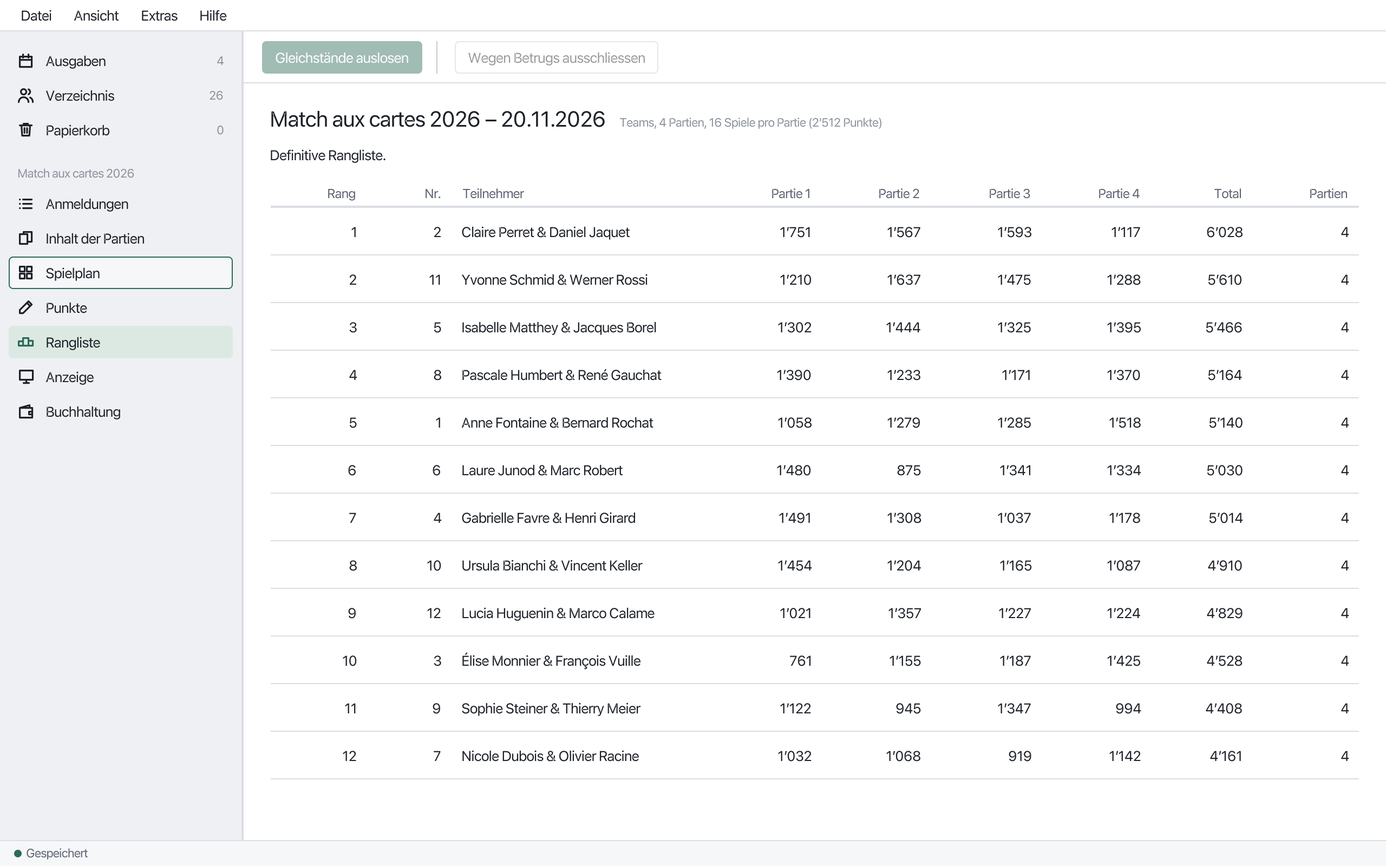
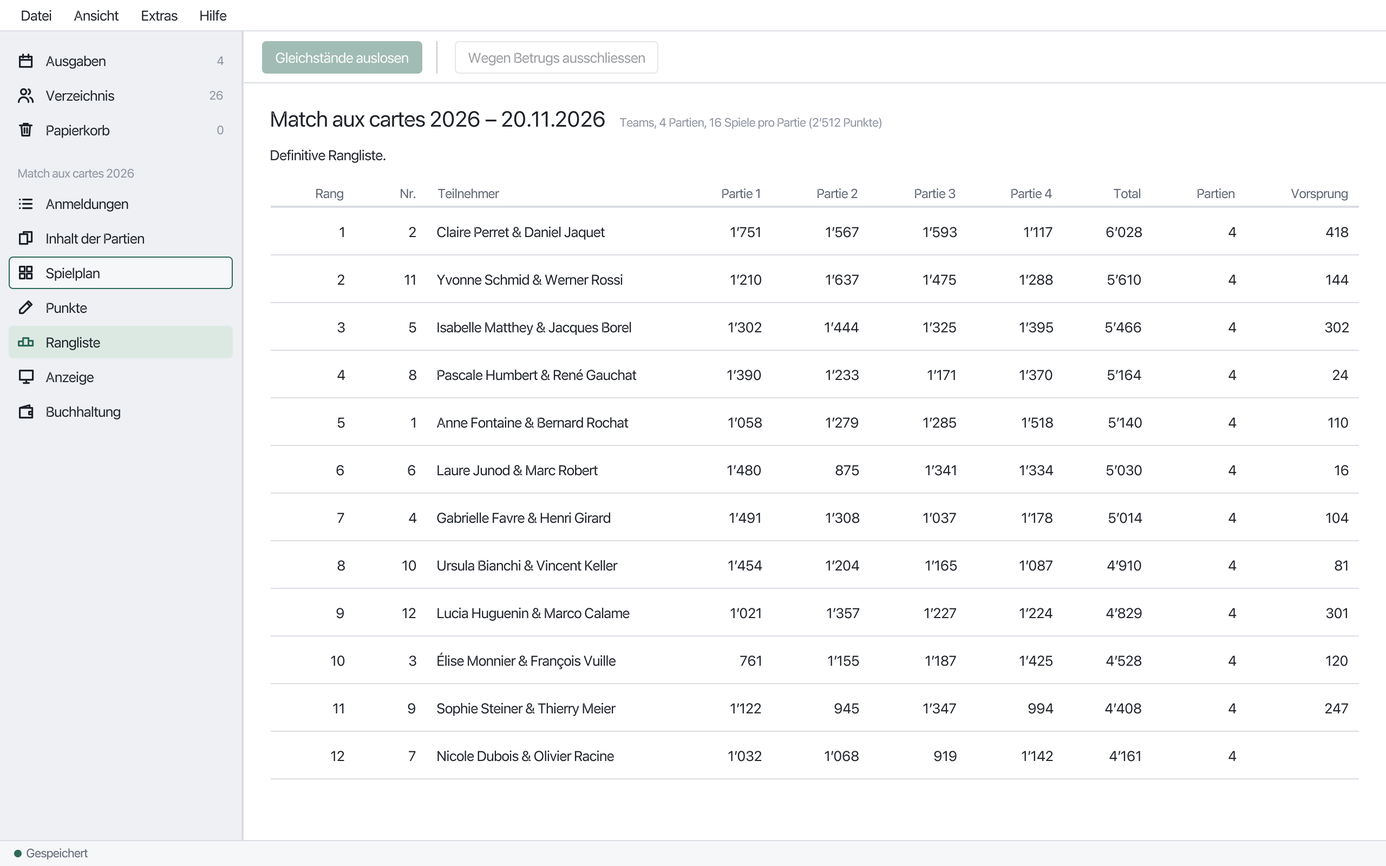
Gap in the ranking, Dependencies
- **Gap in the ranking**: a last column of the ranking, in the main window and on the external
display, gives the points that each participant has more than the one ranked below it (0 for tied
participants, empty for the last).
- **Dependencies**: libphonenumber 9.0.44 and commonmark 0.33.0.

diff --git a/src/test/java/ch/varani/jass/app/DisplayScreenTest.java b/src/test/java/ch/varani/jass/app/DisplayScreenTest.java
@@ -10,6 +10,8 @@ import ch.varani.jass.domain.Player;
 import ch.varani.jass.domain.TournamentMode;
 import ch.varani.jass.persistence.EditionStore;
 import ch.varani.jass.persistence.LogoStore;
+import ch.varani.jass.scoring.RankingEntry;
+import ch.varani.jass.scoring.Scoring;
 import javafx.scene.Node;
 import javafx.scene.control.Button;
 import javafx.scene.control.CheckBox;
@@ -80,8 +82,8 @@ final class DisplayScreenTest {
   private static final double SHORT = 320;
   /** The cells of a line of the places: participant, names, place. */
   private static final int PLACE_CELLS = 3;
-  /** The cells of a line of the ranking of two rounds: rank, participant, names, two rounds, total. */
-  private static final int RANKING_CELLS = 6;
+  /** The cells of a line of the ranking of two rounds: rank, participant, names, two rounds, total, gap. */
+  private static final int RANKING_CELLS = 7;
   /** The players of the individual edition: one table, and one player sitting out. */
   private static final int PLAYERS = 5;
   /** The time left before the next page in the middle of a page. */
@@ -352,6 +354,8 @@ final class DisplayScreenTest {
     clock.advance(Duration.ofSeconds(DisplayModel.PAGE_SECONDS));
     press(robot, "revealButton");
     final List<String> all = cells(robot);
+    final List<RankingEntry> entries = new Scoring(ScoreFixtures.stored(folder, FINAL)).ranking().entries();
+    final String firstGap = new Messages(Languages.FRENCH).number(entries.get(0).points() - entries.get(1).points());
     final String allHeld = text(robot, "pageLabel");
     final String rotate = robot.lookup("#revealButton").queryAs(Button.class).getText();
     clock.advance(Duration.ofMillis(HALF_SECOND));
@@ -377,8 +381,8 @@ final class DisplayScreenTest {
         () -> assertEquals("Rangs révélés : 0 sur 4.", none),
         () -> assertEquals("Révéler le rang 4", firstReveal),
         () -> assertEquals("Classement final", heading),
-        () -> assertEquals(List.of("Rang", "", "", "Partie 1", "Partie 2", "Total", "4", "Équipe 2",
-                                   "Emma2 Favre & Félix2 Girard", "912", "1 120", "2 032"),
+        () -> assertEquals(List.of("Rang", "", "", "Partie 1", "Partie 2", "Total", "Écart", "4", "Équipe 2",
+                                   "Emma2 Favre & Félix2 Girard", "912", "1 120", "2 032", ""),
                            last.stream().map(cell -> cell.replace(' ', ' ')).toList()),
         () -> assertTrue(clockHidden),
         () -> assertTrue(rankingDisabled),
@@ -388,6 +392,7 @@ final class DisplayScreenTest {
         () -> assertFalse(heldBar),
         () -> assertEquals("1", all.get(RANKING_CELLS)),
         () -> assertEquals("Équipe 1", all.get(RANKING_CELLS + 1)),
+        () -> assertEquals(firstGap, all.get(2 * RANKING_CELLS - 1)),
         () -> assertEquals("Page 1 sur 4", allHeld),
         () -> assertEquals("Faire défiler les pages", rotate),
         () -> assertTrue(rotating),

diff --git a/src/test/java/ch/varani/jass/app/RankingScreenTest.java b/src/test/java/ch/varani/jass/app/RankingScreenTest.java
@@ -65,6 +65,8 @@ final class RankingScreenTest {
   private static final int TOTAL = 5;
   /** The index of the column of the number of games in the ranking. */
   private static final int GAMES = 6;
+  /** The index of the column of the gap in the ranking. */
+  private static final int GAP = 7;
   /** The seed of the draw stored in the edition without tie. */
   private static final long SEED = 7;
 
@@ -156,6 +158,9 @@ final class RankingScreenTest {
                                        cell(robot, 0, FIRST_GAME + 1), cell(robot, 0, TOTAL),
                                        cell(robot, 0, GAMES));
     final String names = cell(robot, 0, 2);
+    final List<RankingEntry> entries = List.copyOf(ranking(robot).getItems());
+    final List<String> gaps = List.of(cell(robot, 0, GAP), cell(robot, entries.size() - 1, GAP));
+    final String expectedGap = messages.number(entries.get(0).points() - entries.get(1).points());
     final List<Boolean> numeric = ranking(robot).getColumns().stream()
         .map(column -> column.getStyleClass().contains(Views.NUMBER)).toList();
     final List<Pos> heads = robot.lookup(".column-header.number .label").queryAll().stream()
@@ -185,8 +190,9 @@ final class RankingScreenTest {
         () -> assertEquals(List.of("1", "1", messages.number(SHEET), "",
                                    messages.number(SHEET), "1"), first),
         () -> assertEquals("Emma1 Favre & Félix1 Girard", names),
+        () -> assertEquals(List.of(expectedGap, ""), gaps),
         () -> assertEquals("Emma1 Favre & Félix1 Girard", excludedNames),
-        () -> assertEquals(List.of(true, true, false, true, true, true, true), numeric),
+        () -> assertEquals(List.of(true, true, false, true, true, true, true, true), numeric),
         () -> assertEquals(List.of(Pos.CENTER_RIGHT), heads),
         () -> assertEquals(0, cancelled),
         () -> assertEquals("Équipe 1 : Emma1 Favre & Félix1 Girard a été exclu du classement.", excluded),
@@ -213,6 +219,7 @@ final class RankingScreenTest {
     final String state = text(robot, "state");
     final boolean warning = robot.lookup("#state").query().getStyleClass().contains("warning");
     final List<Integer> tied = ranking(robot).getItems().stream().map(RankingEntry::rank).toList();
+    final String tiedGap = cell(robot, 1, GAP);
     final boolean enabled = !disabled(robot, "drawButton");
     natives.answer(false);
     press(robot, "drawButton");
@@ -240,6 +247,7 @@ final class RankingScreenTest {
                            + "sort (règle 15).", state),
         () -> assertTrue(warning),
         () -> assertEquals(List.of(1, 2, 2, ScoreFixtures.TEAMS), tied),
+        () -> assertEquals("0", tiedGap),
         () -> assertTrue(enabled),
         () -> assertTrue(notDrawn),
         () -> assertEquals(List.of(2, ScoreFixtures.THIRD), order),

diff --git a/src/main/java/ch/varani/jass/app/DisplayWindow.java b/src/main/java/ch/varani/jass/app/DisplayWindow.java
@@ -32,6 +32,7 @@ import java.time.Clock;
 import java.time.Instant;
 import java.util.ArrayList;
 import java.util.List;
+import java.util.OptionalInt;
 
 /**
  * The external display (F18): a window of its own, independent of the main window, to be moved to a projector or a
@@ -42,7 +43,8 @@ import java.util.List;
  * the place and table of every participant in the round, by number, those sitting out being marked.</p>
  *
  * <p><b>Final ranking</b>: the lines revealed from the main window, from the last to the first, shown the best first,
- * each with the rank, the participant, its points in every round and its total. While they are being revealed, the
+ * each with the rank, the participant, its points in every round, its total and its gap, the points it has more than
+ * the participant ranked below it (empty for the last). While they are being revealed, the
  * first page is held, so that the line revealed last always stays on the screen; its pages alternate once the user
  * starts their rotation.</p>
  *
@@ -315,11 +317,13 @@ final class DisplayWindow {
     final List<ColumnConstraints> columns = new ArrayList<>(List.of(numeric(), fixed(), growing()));
     rounds.forEach(number -> columns.add(numeric()));
     columns.add(numeric());
+    columns.add(numeric());
     grid.getColumnConstraints().setAll(columns);
     final List<Label> head = new ArrayList<>(List.of(cell(messages.get("ranking.column.rank")), cell(""),
                                                      cell("")));
     rounds.forEach(number -> head.add(cell(messages.get("ranking.column.game", number))));
     head.add(cell(messages.get("ranking.column.total")));
+    head.add(cell(messages.get("ranking.column.gap")));
     head.forEach(label -> label.getStyleClass().add("display-column"));
     grid.addRow(0, head.toArray(Label[]::new));
     final List<RankingEntry> revealed = DisplayModel.revealed(ranking, state.revealed().get());
@@ -334,6 +338,8 @@ final class DisplayWindow {
       rounds.forEach(number -> row.add(cell(scoring.points(entry.participant(), number)
                                                    .map(messages::number).orElse(""))));
       row.add(cell(messages.number(entry.points())));
+      final OptionalInt gap = ranking.gap(ranking.entries().indexOf(entry));
+      row.add(cell(gap.isPresent() ? messages.number(gap.getAsInt()) : ""));
       grid.addRow(grid.getRowCount(), row.toArray(Label[]::new));
     }
     showPage(page, rotation, now);

diff --git a/src/main/java/ch/varani/jass/app/RankingController.java b/src/main/java/ch/varani/jass/app/RankingController.java
@@ -17,6 +17,7 @@ import javafx.scene.control.TableView;
 import javafx.scene.layout.VBox;
 
 import java.util.List;
+import java.util.OptionalInt;
 import java.util.function.Function;
 
 /**
@@ -25,7 +26,8 @@ import java.util.function.Function;
  *
  * <p><b>Layout</b> (DESIGN.md §6): the state of the ranking (provisional with the number of games with a result,
  * ties to break, final), then the ranking: rank, number, participant, its points in each game (empty while the game has
- * no result, or when the participant sits out), its total and its number of games with a result; then the
+ * no result, or when the participant sits out), its total, its number of games with a result and its gap, the points
+ * it has more than the participant ranked below it (empty for the last); then the
  * participants excluded for cheating, who can be readmitted. The drawing of lots is the primary action of the toolbar,
  * the exclusion of the selected participant a destructive tool.</p>
  *
@@ -156,6 +158,7 @@ final class RankingController {
     }
     column(table, messages.get("ranking.column.total"), entry -> messages.number(entry.points()), true);
     column(table, messages.get("ranking.column.games"), entry -> String.valueOf(entry.games()), true);
+    column(table, messages.get("ranking.column.gap"), this::gap, true);
     table.getItems().setAll(ranking.entries());
   }
 
@@ -218,6 +221,18 @@ final class RankingController {
    */
   private String points(final int participant, final int round) {
     return scoring.points(participant, round).map(main.messages()::number).orElse("");
+  }
+
+  /**
+   * Returns the gap of a line of the ranking: the points it has more than the line below it.
+   *
+   * @param entry the line, one of the ranking.
+   *
+   * @return the gap, formatted, or an empty text for the last line.
+   */
+  private String gap(final RankingEntry entry) {
+    final OptionalInt gap = ranking.gap(ranking.entries().indexOf(entry));
+    return gap.isPresent() ? main.messages().number(gap.getAsInt()) : "";
   }
 
   // *******************************************************************************************************************

diff --git a/src/test/java/ch/varani/jass/scoring/RankingTest.java b/src/test/java/ch/varani/jass/scoring/RankingTest.java
@@ -5,10 +5,12 @@ import org.junit.jupiter.api.DisplayName;
 import org.junit.jupiter.api.Test;
 
 import java.util.List;
+import java.util.OptionalInt;
 
 import static org.junit.jupiter.api.Assertions.assertAll;
 import static org.junit.jupiter.api.Assertions.assertEquals;
 import static org.junit.jupiter.api.Assertions.assertFalse;
+import static org.junit.jupiter.api.Assertions.assertThrows;
 import static org.junit.jupiter.api.Assertions.assertTrue;
 
 /**
@@ -32,6 +34,23 @@ final class RankingTest {
         () -> assertTrue(new Ranking(List.of(first, new RankingEntry(1, 2, POINTS, 1)), true).hasTies()),
         () -> assertFalse(new Ranking(List.of(first, new RankingEntry(2, 2, POINTS, 1)), true).hasTies()),
         () -> assertFalse(new Ranking(List.of(), false).hasTies()));
+  }
+
+  /**
+   * The gap of a line is the points it has more than the line below it; the last line has none.
+   */
+  @Test
+  @DisplayName("The gap of a line is the points it has more than the next line, none for the last line")
+  void gapTest() {
+    final int behind = 12;
+    final Ranking ranking = new Ranking(List.of(new RankingEntry(1, 1, POINTS, 1),
+                                                new RankingEntry(2, 2, POINTS - behind, 1),
+                                                new RankingEntry(2, THREE, POINTS - behind, 1)), true);
+    assertAll(
+        () -> assertEquals(OptionalInt.of(behind), ranking.gap(0)),
+        () -> assertEquals(OptionalInt.of(0), ranking.gap(1)),
+        () -> assertEquals(OptionalInt.empty(), ranking.gap(2)),
+        () -> assertThrows(IndexOutOfBoundsException.class, () -> ranking.gap(THREE)));
   }
 
   /**

diff --git a/src/main/java/ch/varani/jass/scoring/Ranking.java b/src/main/java/ch/varani/jass/scoring/Ranking.java
@@ -1,6 +1,7 @@
 package ch.varani.jass.scoring;
 
 import java.util.List;
+import java.util.OptionalInt;
 
 /**
  * The ranking of an edition (rule 14), computed from its results, never stored.
@@ -35,6 +36,24 @@ public record Ranking(List<RankingEntry> entries, boolean complete) {
       }
     }
     return false;
+  }
+
+  /**
+   * Returns the gap between a line of the ranking and the line below it: the points that the participant has more
+   * than the next one (zero for tied participants).
+   *
+   * @param index the index of the line, from 0, less than the number of lines.
+   *
+   * @return the points of this line minus those of the next line, or empty for the last line.
+   *
+   * @throws IndexOutOfBoundsException if the index is negative or not less than the number of lines.
+   */
+  public OptionalInt gap(final int index) {
+    final RankingEntry entry = entries.get(index);
+    if (index == entries.size() - 1) {
+      return OptionalInt.empty();
+    }
+    return OptionalInt.of(entry.points() - entries.get(index + 1).points());
   }
 
 }

diff --git a/README.md b/README.md
@@ -43,8 +43,8 @@ saved, the selection and the notices.
 | Content of the games | The plan of the deals of the edition, edited as in the form of a new edition (type of each deal, plan of the regulation, blocks of 4 deals added or removed) while the registration is open, e.g. to correct an edition created with a wrong plan without typing its registrations again; every change saved at once; read-only once the schedule is computed. |
 | Schedule | Each round with its tables, places, giver and receiver, and the participants sitting out; export of the schedule, the places, the score cards and the score sheets as PDF. Before the closing of the registration, the view says so and leads to the registration. |
 | Scores | The games of the schedule with their sides and results, and the count of the games with a result; in the detail panel, the score sheet of the selected game as the paper sheet: column A (the side at the odd place, which deals first) and column B, one line per deal of the plan with its type, a subtotal per block of 4 deals, the totals, the rule 16 deduction and the points counted in the ranking. Column A is typed and column B derived (`157 − A`, shown in grey) until it is typed; a value is taken on Enter (which moves to the next deal) or when the field is left, and saved at once; Up and Down move between the deals; a value that is not a number between 0 and 157 is rejected; the deals whose columns do not make 157 points are highlighted and listed, and their game is marked in the list (warning colour and icon). A side can be marked absent (rule 19: forfeit). The sheet is cleared after confirmation (button or Delete); Enter in the list moves to the sheet; the tool of the toolbar goes to the next game without result. |
-| Ranking | Computed from the results each time it is shown: provisional (with the number of games with a result), ties to break, or final; rank, number, participant (its players, without its number), points of every game, total and number of games. Drawing of lots of the ties (primary action, rule 15) once every game has a result, which closes the match: the score sheets and the exclusions can no longer be changed until the draw is cancelled (after confirmation); exclusion of the selected participant for cheating (rule 17) after confirmation, and its cancellation. |
-| Display | Control of the external display (F18), a second window to move to a projector or a television: open and close it (also from the menu View), the screen and the full screen; the round shown (the round in progress by default), the time of a game (60 minutes by default, saved with the edition), the start signal of the countdown and its cancellation; once every game has a result and the ties are broken, the final ranking revealed one line at a time from the last, its first page held, then the rotation of its pages started by the user, hidden again, or back to the round. The display window shows the logo of the documents, the edition, the round, the countdown (time remaining, "time is over" at zero) and the place and table of every participant, or the final ranking with the points of every round; the lines that do not fit alternate by pages every 10 seconds, with a bar emptying until the next page. It shows no contact detail. |
+| Ranking | Computed from the results each time it is shown: provisional (with the number of games with a result), ties to break, or final; rank, number, participant (its players, without its number), points of every game, total, number of games and gap (the points more than the participant ranked below). Drawing of lots of the ties (primary action, rule 15) once every game has a result, which closes the match: the score sheets and the exclusions can no longer be changed until the draw is cancelled (after confirmation); exclusion of the selected participant for cheating (rule 17) after confirmation, and its cancellation. |
+| Display | Control of the external display (F18), a second window to move to a projector or a television: open and close it (also from the menu View), the screen and the full screen; the round shown (the round in progress by default), the time of a game (60 minutes by default, saved with the edition), the start signal of the countdown and its cancellation; once every game has a result and the ties are broken, the final ranking revealed one line at a time from the last, its first page held, then the rotation of its pages started by the user, hidden again, or back to the round. The display window shows the logo of the documents, the edition, the round, the countdown (time remaining, "time is over" at zero) and the place and table of every participant, or the final ranking with the points of every round, the total and the gap to the participant ranked below; the lines that do not fit alternate by pages every 10 seconds, with a bar emptying until the next page. It shows no contact detail. |
 | Accounting | The summary (registration fees paid, incomes and expenses per category, totals, balance in red when negative, fees outstanding), the entries by date, the fee per player (CHF) and a box per player telling whether it paid, saved at once. In the detail panel, the selected entry or a new one (primary action, Shortcut+N): date, income or expense, category (proposed from those already used), description, amount typed with a dot or a comma; saved by its button or Shortcut+S, deleted after confirmation (button or Delete). The supporting documents of a saved entry (PDF, PNG or JPEG, 20 MB at most each) are added by the file chooser or dropped from the file manager, stored in the edition file, opened with the application of the system through a temporary copy deleted when the application quits, and removed after confirmation. |
 | Directory | Search (Shortcut+F), filter by edition, the persons with their count; in the detail panel, the form of a person (names, e-mail, phone, notes, contact status, participations); new person (primary action, Shortcut+N; possible duplicates confirmed), saved by its button or Shortcut+S, so that persons are typed one after the other from the keyboard; deletion, erasure of the contact details, merge of two persons; copy of the e-mail addresses or phone numbers of the selection without the persons not to be contacted; import and export as CSV. |
 | Import of persons | CSV file or rows pasted from a spreadsheet; separator and columns guessed, then chosen by the user; preview with the invalid values and the possible duplicates; duplicates imported only when asked. |
@@ -219,7 +219,7 @@ if (ranking.complete() && ranking.hasTies()) {
 | `ScoreSheet`, `Absence` | The sheet of a game (round, table): one `DealScore` per deal of the plan, and the absent sides (rule 19). |
 | `Results`, `TieBreak` | The sheets (one per game), the participants excluded for cheating (rule 17), the drawing of lots (seed and order, rule 15). `Edition` checks that they match its schedule, plan and registrations. |
 | `SheetTotals` | Subtotals per block of 4 deals, totals, rule 16 deduction (half of the excess over the points of a game, rounded up), inconsistent deals. |
-| `Scoring`, `GameResult`, `Ranking`, `RankingEntry` | Result of each game (sheet, or forfeit: the absent or excluded side 0, the other 1'256), ranking by total (excluded participants removed, ties sharing a rank until the draw), drawing of lots once every game has a result. In individual mode, each partner gets the points of its side. |
+| `Scoring`, `GameResult`, `Ranking`, `RankingEntry` | Result of each game (sheet, or forfeit: the absent or excluded side 0, the other 1'256), ranking by total (excluded participants removed, ties sharing a rank until the draw), gap of each line to the line below, drawing of lots once every game has a result. In individual mode, each partner gets the points of its side. |
 
 ## Accounting
 

diff --git a/guide/de.md b/guide/de.md
@@ -305,7 +305,8 @@ Am Ende des Turniers **Rangliste anzeigen**, dann mit **Rang enthüllen** einen 
 ersten. Während der Enthüllung bleibt die Anzeige auf der ersten Seite: Der zuletzt enthüllte Rang steht immer oben,
 und fehlt der Platz, verschwinden die unteren Ränge vom Bildschirm. Ist alles enthüllt, wird dieselbe Schaltfläche zu
 **Seiten durchblättern**: Klicken Sie darauf, wenn Sie wollen, damit die Seiten der ganzen Rangliste alle 10 Sekunden
-wechseln. **Alles verbergen** beginnt die Enthüllung von vorn, auf der ersten Seite.
+wechseln. **Alles verbergen** beginnt die Enthüllung von vorn, auf der ersten Seite. Jede Zeile zeigt auch den
+**Vorsprung**, die Punkte mehr als der folgende Rang.
 
 <img src="images/de/display-control.png" alt="Die Steuerung der Anzeige" width="800">
 
@@ -338,7 +339,8 @@ Blatt erfassen**): Ihr Blatt erscheint rechts, wie das Papierblatt.
 ## 10. Die Rangliste erstellen
 
 Die **Rangliste** wird bei jeder Anzeige neu berechnet: provisorisch, solange Partien ohne Resultat sind, dann
-definitiv. Sie zeigt den Rang, die Punkte jeder Partie und das Total.
+definitiv. Sie zeigt den Rang, die Punkte jeder Partie, das Total und in der letzten Spalte den **Vorsprung**: die
+Punkte mehr als die Teilnehmenden direkt dahinter (leer für die letzten).
 
 - **Gleichstände** (Regel 15): Sobald alle Partien ein Resultat haben, **Gleichstände auslosen**. Die Auslosung
   schliesst den Match ab: Die Blätter können nicht mehr geändert werden. Um danach einen Punktestand zu korrigieren,

diff --git a/guide/it.md b/guide/it.md
@@ -300,7 +300,8 @@ Alla fine del torneo, **Mostra la classifica**, poi **Rivela il rango** uno per 
 rivelazione, lo schermo resta sulla prima pagina: il rango rivelato per ultimo è sempre in alto e, se manca lo spazio,
 i ranghi in basso spariscono dallo schermo. Una volta rivelato tutto, lo stesso pulsante diventa **Far scorrere le
 pagine**: cliccatelo quando volete perché le pagine della classifica completa si alternino ogni 10 secondi.
-**Nascondi tutto** ricomincia la rivelazione, sulla prima pagina.
+**Nascondi tutto** ricomincia la rivelazione, sulla prima pagina. Ogni riga indica anche il **Distacco**, i punti
+di vantaggio sul rango seguente.
 
 <img src="images/it/display-control.png" alt="Il comando dello schermo" width="800">
 
@@ -333,7 +334,8 @@ successivo da inserire**): il suo foglio appare a destra, come il foglio di cart
 ## 10. Stabilire la classifica
 
 La **Classifica** è ricalcolata a ogni visualizzazione: provvisoria finché alcune partite non hanno un risultato, poi
-definitiva. Indica il rango, i punti di ogni partita e il totale.
+definitiva. Indica il rango, i punti di ogni partita, il totale e, nell’ultima colonna, il **Distacco**: i punti di
+vantaggio sul partecipante classificato subito sotto (vuoto per l’ultimo).
 
 - **Parità** (regola 15): quando tutte le partite hanno un risultato, **Sorteggia le parità**. Il sorteggio chiude il
   match: i fogli non sono più modificabili. Per correggere un punteggio in seguito, **Annulla il sorteggio**,

diff --git a/guide/fr.md b/guide/fr.md
@@ -301,7 +301,8 @@ en choisit une autre.
 révélation, l’affichage reste sur la première page : le rang révélé en dernier est toujours en haut, et si la place
 manque, les rangs du bas disparaissent de l’écran. Une fois tout révélé, le même bouton devient **Faire défiler les
 pages** : cliquez-le quand vous le souhaitez pour que les pages du classement complet défilent toutes les 10 secondes.
-**Tout masquer** recommence la révélation, sur la première page.
+**Tout masquer** recommence la révélation, sur la première page. Chaque ligne donne aussi l’**Écart**, les points
+d’avance sur le rang suivant.
 
 <img src="images/fr/display-control.png" alt="Le pilotage de l’affichage" width="800">
 
@@ -334,7 +335,8 @@ suivante à saisir**) : sa feuille apparaît à droite, comme la feuille papier.
 ## 10. Établir le classement
 
 Le **Classement** est recalculé à chaque affichage : provisoire tant que des parties n’ont pas de résultat, puis
-définitif. Il donne le rang, les points de chaque partie et le total.
+définitif. Il donne le rang, les points de chaque partie, le total et, dans la dernière colonne, l’**Écart** : les
+points d’avance sur le participant classé juste en dessous (vide pour le dernier).
 
 - **Égalités** (règle 15) : une fois toutes les parties saisies, **Tirer au sort les égalités**. Le tirage clôt le
   match : les feuilles ne sont plus modifiables. Pour corriger un score après coup, **Annuler le tirage**, corrigez,

diff --git a/guide/en.md b/guide/en.md
@@ -294,7 +294,7 @@ At the end of the tournament, **Show the ranking**, then **Reveal rank** one by 
 During the reveal, the display stays on the first page: the rank revealed last is always at the top, and when there is
 no room left, the lower ranks leave the screen. Once everything is revealed, the same button becomes **Turn the
 pages**: click it when you wish, and the pages of the whole ranking alternate every 10 seconds. **Hide everything**
-starts the reveal again, on the first page.
+starts the reveal again, on the first page. Each line also gives the **Gap**, the points ahead of the next rank.
 
 <img src="images/en/display-control.png" alt="The control of the display" width="800">
 
@@ -327,7 +327,8 @@ sheet appears on the right, like the paper sheet.
 ## 10. Establish the ranking
 
 The **Ranking** is computed each time it is shown: provisional while some games have no result, then final. It gives
-the rank, the points of each game and the total.
+the rank, the points of each game, the total and, in the last column, the **Gap**: the points ahead of the participant
+ranked just below (empty for the last).
 
 - **Ties** (rule 15): once every game has a result, **Draw lots for the ties**. The draw closes the match: the sheets
   can no longer be changed. To correct a score afterwards, **Cancel the draw**, correct, then draw lots again.

diff --git a/changelog.md b/changelog.md
@@ -4,6 +4,13 @@ All notable changes of the project are documented in this file.
 
 ## [Unreleased]
 
+### Added
+- **Gap in the ranking**: a last column of the ranking, in the main window and on the external display, gives the
+  points that each participant has more than the one ranked below it (0 for tied participants, empty for the last).
+
+### Changed
+- **Dependencies**: libphonenumber 9.0.44 and commonmark 0.33.0.
+
 ## [1.2.0] – 2026-11-18
 
 ### Added
